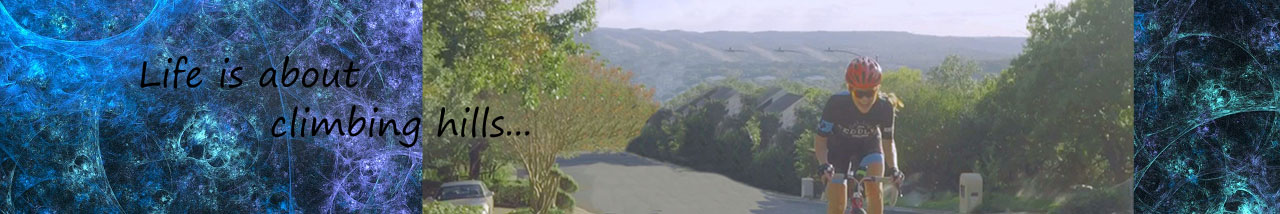
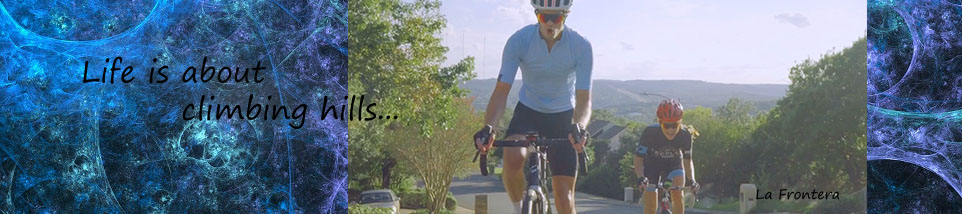
Adding new cover photo with better edits.

diff --git a/content/home/slider.md b/content/home/slider.md
@@ -18,7 +18,7 @@ height = "375px"
 
 [[item]] #1
   #title = "Left"
-  content = "Life is about climbing hills." #"I am left aligned :smile:"
+  #content = "Life is about climbing hills." #"I am left aligned :smile:"
   align = "left"
 
   overlay_color = "#555"  # An HTML color value.
